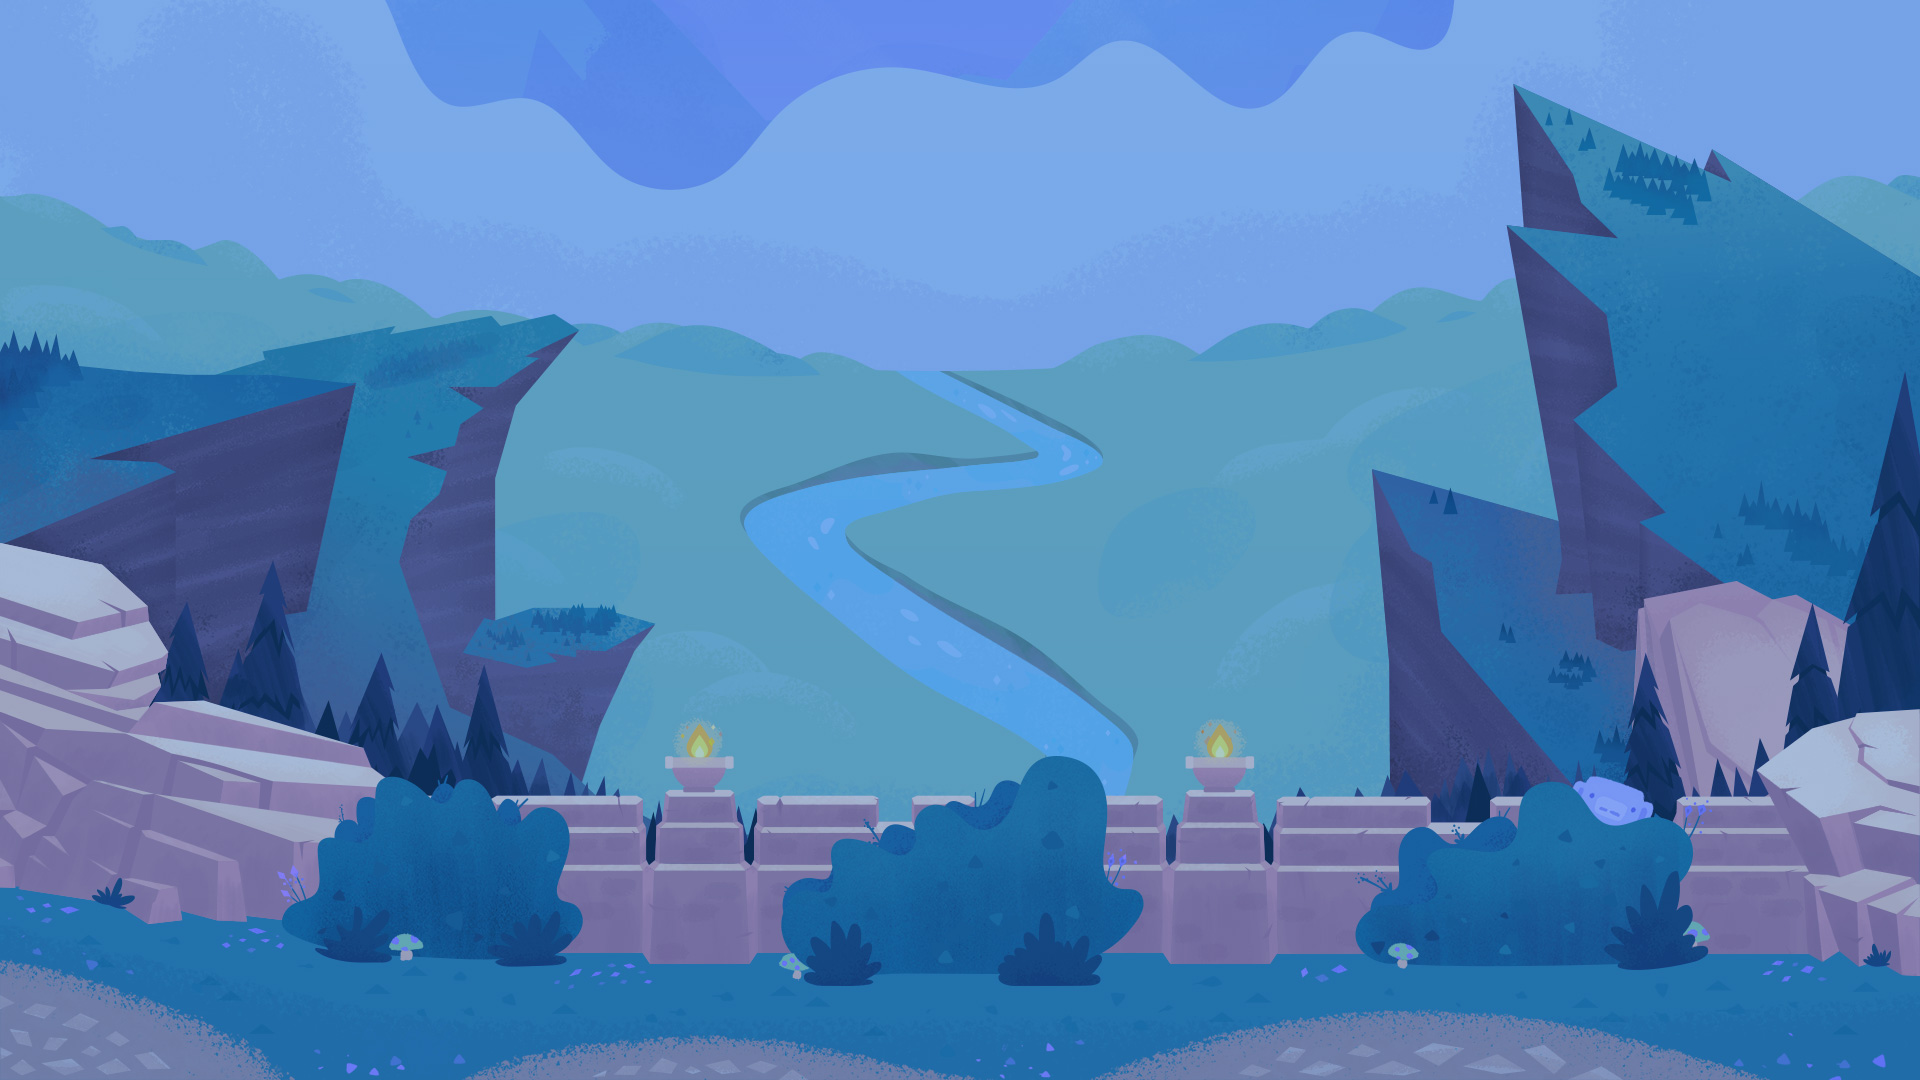
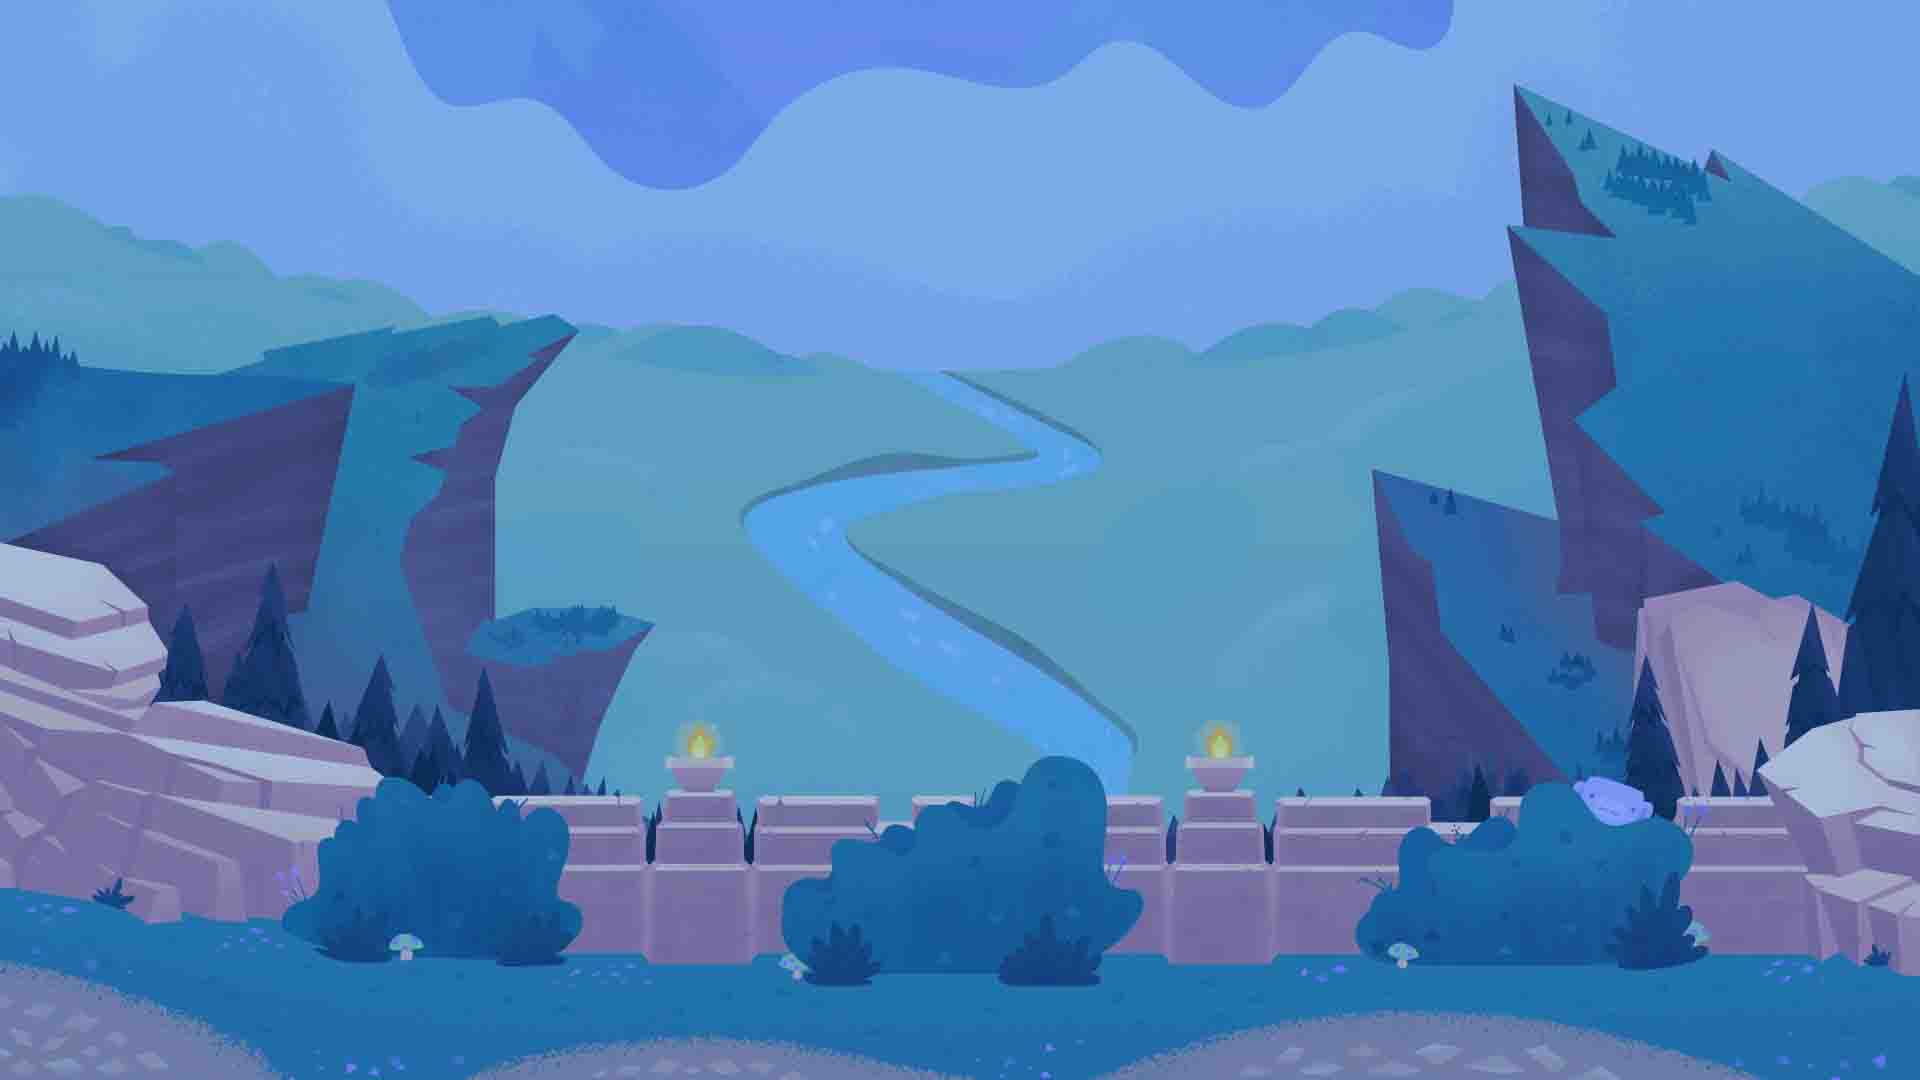
Authentication, Friends and small UI updates
Changed how emails are verified when logging in and signing up. This is now done using Firebase instead of client side.

Add friends input verification works and checks if the user exists on the platform. To be developed is the actual add friends functionality.

Smooth fade in and out for modals.
Background image for login and signup is slightly reduced in size for faster loading. Need to figure out a caching system for image and video assets which are not modified frequently

diff --git a/public/js/me/friends.js b/public/js/me/friends.js
@@ -13,7 +13,7 @@
 
 document.getElementById('addFriendField').addEventListener('input', event => {
     const button = document.getElementById('addFriendButton');
-    let value = event.target.value;
+    const value = event.target.value;
 
     if (value) {
         button.removeAttribute('disabled');
@@ -23,31 +23,50 @@ document.getElementById('addFriendField').addEventListener('input', event => {
 });
 
 
-document.getElementById('addFriendButton').addEventListener('click', async () => {
+document.getElementById('addFriendField').addEventListener('keyup', event => {
+    const value = event.target.value;
+
+    if (event.key === 'Enter' && value) addFriendInit();
+});
+
+
+document.getElementById('addFriendButton').addEventListener('click', () => {
+    addFriendInit();
+}); 
+
+
+/**
+ * 
+ */
+async function addFriendInit() {
+    const button = document.getElementById('addFriendButton');
     const input = document.getElementById('addFriendField');
     const label = document.getElementById('addFriendLabel');
+
     const split = input.value.split('#');
 
-    // 1. Too many #'s
-    // 2. No # is present
-    // 3. No numbers after #
+    showButtonLoader(button);
 
-    label.classList.add('error-3T-E-_');
-
-    if (split.length >= 2) {
+    if (split.length > 2) {
+        label.classList.add('error-3T-E-_');
         label.innerText = 'You cannot have more than one # in a user\'s username.';
 
     } else if (split.length === 1) {
+        label.classList.add('error-3T-E-_');
         label.innerText = `We need ${input.value}'s four digit tag so we know which one they are.`;
 
-    } else if (split[1] === null || isNaN(split[1])) {
-        label.innerText = 'Hm, didn\'t work. Double check that the capitaliaation, spelling, any spaces, and numbers are correct.';
+    } else if (!split[1] || split[1].length !== 4 || isNaN(split[1])) {
+        label.classList.add('error-3T-E-_');
+        label.innerText = 'Hm, didn\'t work. Double check that the capitalisation, spelling, any spaces, and numbers are correct.';
 
     } else {
         const user = await getUserByFullUsername(input.value);
 
+        // Back to default
+        label.innerText = 'You can add a friend with their Discord Tag. It\'s cAsE sEnSitIvE!';
         label.classList.remove('error-3T-E-_');
 
+        // Can't find user
         if (!user) {
             showBasicModal(
                 'Friend Request Failed',
@@ -55,6 +74,33 @@ document.getElementById('addFriendButton').addEventListener('click', async () =>
                 'Okay',
                 'hideModals()'
             );
+        } else {
+            await addFriend(user);
+
+            label.classList.add('success-t0oxXf');
+            label.innerHTML = `Success! Your friend request to <strong>${input.value}</strong> was sent.`;
+            input.value = '';
+            button.setAttribute('disabled', '');
         }
     }
-});
+
+    hideButtonLoader(button);
+}
+
+
+/**
+ * 
+ * @param {*} user 
+ */
+async function addFriend(user) {
+    const uid = firebase.auth().currentUser.uid;
+    const friendUID = user.key;
+
+    const {
+        avatar,
+        discriminator,
+        username,
+    } = user;
+
+    // await firebase.database().ref(`/friends/${}/`);
+}

diff --git a/public/css/main.css b/public/css/main.css
@@ -79185,11 +79185,11 @@ html .invoiceCancelRow-3mYhFX {
 }
 
 .fadeIn-dk023d {
-	animation: fadeInBackdrop ease 0.1s;
-	-webkit-animation: fadeInBackdrop ease 0.1s;
-	-moz-animation: fadeInBackdrop ease 0.1s;
-	-o-animation: fadeInBackdrop ease 0.1s;
-	-ms-animation: fadeInBackdrop ease 0.1s;
+	animation: fadeInBackdrop ease 0.15s;
+	-webkit-animation: fadeInBackdrop ease 0.15s;
+	-moz-animation: fadeInBackdrop ease 0.15s;
+	-o-animation: fadeInBackdrop ease 0.15s;
+	-ms-animation: fadeInBackdrop ease 0.15s;
 }
 
 @keyframes fadeInBackdrop {
@@ -79218,11 +79218,11 @@ html .invoiceCancelRow-3mYhFX {
 }
 
 .fadeIn-efi30 {
-	animation: fadeIn ease 0.1s;
-	-webkit-animation: fadeIn ease 0.1s;
-	-moz-animation: fadeIn ease 0.1s;
-	-o-animation: fadeIn ease 0.1s;
-	-ms-animation: fadeIn ease 0.1s;
+	animation: fadeIn ease 0.15s;
+	-webkit-animation: fadeIn ease 0.15s;
+	-moz-animation: fadeIn ease 0.15s;
+	-o-animation: fadeIn ease 0.15s;
+	-ms-animation: fadeIn ease 0.15s;
 }
 
 @keyframes fadeIn {
@@ -79248,4 +79248,70 @@ html .invoiceCancelRow-3mYhFX {
 @-ms-keyframes fadeIn {
 	0% {opacity:0;}
 	100% {opacity:1;}
+}
+
+.fadeOut-efi30 {
+	animation: fadeOut ease 0.15s;
+	-webkit-animation: fadeOut ease 0.15s;
+	-moz-animation: fadeOut ease 0.15s;
+	-o-animation: fadeOut ease 0.15s;
+	-ms-animation: fadeOut ease 0.15s;
+}
+
+@keyframes fadeOut {
+	0% {opacity:1;}
+	100% {opacity:0;}
+}
+
+@-moz-keyframes fadeOut {
+	0% {opacity:1;}
+	100% {opacity:0;}
+}
+
+@-webkit-keyframes fadeOut {
+	0% {opacity:1;}
+	100% {opacity:0;}
+}
+
+@-o-keyframes fadeOut {
+	0% {opacity:1;}
+	100% {opacity:0;}
+}
+
+@-ms-keyframes fadeOut {
+	0% {opacity:1;}
+	100% {opacity:0;}
+}
+
+.fadeOut-dk023d {
+	animation: fadeOutBackdrop ease 0.15s;
+	-webkit-animation: fadeOutBackdrop ease 0.15s;
+	-moz-animation: fadeOutBackdrop ease 0.15s;
+	-o-animation: fadeOutBackdrop ease 0.15s;
+	-ms-animation: fadeOutBackdrop ease 0.15s;
+}
+
+@keyframes fadeOutBackdrop {
+	0% {opacity:0.85;}
+	100% {opacity:0;}
+}
+
+@-moz-keyframes fadeOutBackdrop {
+	0% {opacity:0.85;}
+	100% {opacity:0;}
+}
+
+@-webkit-keyframes fadeOutBackdrop {
+	0% {opacity:0.85;}
+	100% {opacity:0;}
+}
+
+@-o-keyframes fadeOutBackdrop {
+	0% {opacity:0.85;}
+	100% {opacity:0;}
+}
+
+@-ms-keyframes fadeOutBackdrop {
+	0% {opacity:0.85;}
+	100% {opacity:0;}
 }

diff --git a/public/js/helpers/forms.js b/public/js/helpers/forms.js
@@ -102,7 +102,13 @@ function showButtonLoader(element) {
  * @param {*} element 
  */
 function hideButtonLoader(element) {
-    element.innerHTML = `<div class="contents-18-Yxp">Login</div>`;
+    const children = element.childNodes[0];
+
+    if (children) {
+        const buttonContents = element.querySelectorAll('.contents-18-Yxp')[0];
+        
+        element.innerHTML = `<div class="contents-18-Yxp">${buttonContents.innerText}</div>`;
+    }
 }
 
 
@@ -144,20 +150,11 @@ function validateInputs(ids) {
     // Check each input
     ids.forEach(id => {
         const element = document.getElementById(id + 'Field');
-        const type = element.getAttribute('type');
 
         // Field is empty
         if (!element.value) {
             showInputError(id + 'Field');
             showLabelError(id + 'Label', 'This field is required.');
-
-            return;
-        }
-
-        // Invalid email address
-        if (type === 'email' && !validateEmail(element.value)) {
-            showInputError(id + 'Field');
-            showLabelError(id + 'Label', 'Email address is invalid.');
 
             return;
         }

diff --git a/public/js/helpers/interface.js b/public/js/helpers/interface.js
@@ -103,7 +103,7 @@ function hidePageLoader() {
  * @param {*} buttonEvent 
  */
 function showBasicModal(heading, message, buttonText, buttonEvent) {
-    const modal = document.getElementById('modal');
+    const modal = document.querySelectorAll('.layerContainer-yqaFcK')[0];
 
     if (modal.childNodes.length) return;
 
@@ -136,8 +136,18 @@ function showBasicModal(heading, message, buttonText, buttonEvent) {
 /**
  * 
  */
-function hideModals() {
-    const modal = document.getElementById('modal');
+async function hideModals() {
+    const modal = document.querySelectorAll('.layerContainer-yqaFcK')[0];
+    
+    if (!modal.childNodes.length) return;
+    
+    const container = document.querySelectorAll('.fadeIn-efi30')[0];
+    const background = document.querySelectorAll('.fadeIn-dk023d')[0];
+
+    container.classList.add('fadeOut-efi30');
+    background.classList.add('fadeOut-dk023d');
+    
+    await delay(100);
 
     modal.innerHTML = '';
 }

diff --git a/public/js/auth/login.js b/public/js/auth/login.js
@@ -59,9 +59,14 @@ async function login() {
         if (error.code === 'auth/wrong-password') {
             showLabelError('passwordLabel', AUTH_CODES[error.code]);
             showInputError('passwordField');
+        } else if (error.code === 'auth/invalid-email') {
+            showLabelError('emailLabel', AUTH_CODES[error.code]);
+            showInputError('emailField');
         } else {
             showLabelError('emailLabel', AUTH_CODES[error.code]);
         }
+
+        console.log(error.code);
 
         hideButtonLoader(button);
         enableButton(button);

diff --git a/public/js/auth/signup.js b/public/js/auth/signup.js
@@ -110,9 +110,13 @@ async function signup() {
     } catch (error) {
         if (error.code === 'auth/email-already-in-use') {
             showInputError('emailField');
+        } else if (error.code === 'auth/email-invalid') {
+            showInputError('emailField');
         }
 
         showLabelError('emailLabel', AUTH_CODES[error.code]);
+
+        console.log(error.code);
 
         hideButtonLoader(button);
         enableButton(button);

diff --git a/public/views/me.html b/public/views/me.html
@@ -620,7 +620,7 @@
             <div class="popouts-2bnG9Z"></div>
             <div></div>
             <div></div>
-            <div class="layerContainer-yqaFcK" id="modal"></div>
+            <div class="layerContainer-yqaFcK"></div>
             <div style="position: fixed; opacity: 0; pointer-events: none;"></div>
         </div>
 

diff --git a/public/js/me/interface.js b/public/js/me/interface.js
@@ -27,7 +27,7 @@ firebase.auth().onAuthStateChanged(async user => {
         }
 
         await showMiniProfile();
-        // await delay(2000);
+        await delay(2000);
     }
 
     hidePageLoader();
